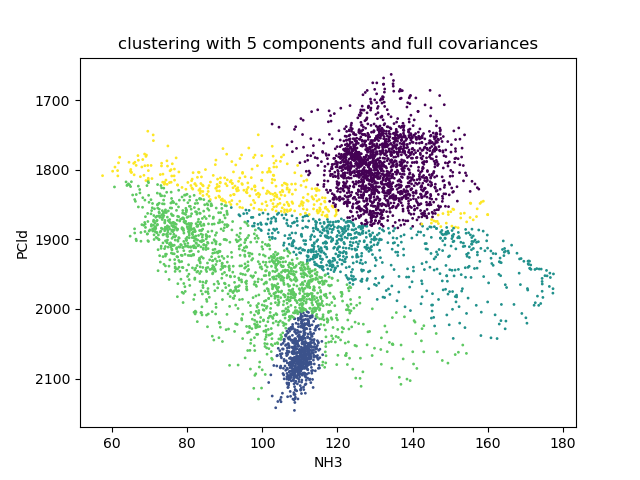
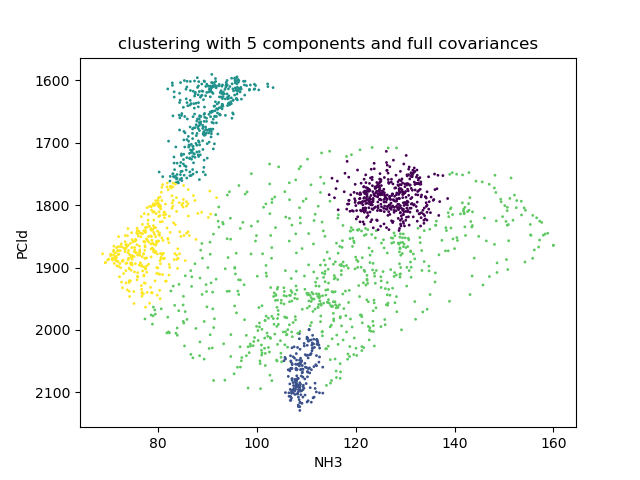
chore: move plotting logic to plot file

diff --git a/scripts/plots/plots.py b/scripts/plots/plots.py
@@ -1,32 +1,26 @@
 import matplotlib.pyplot as plt
-from scripts.preprocessing.preprocessing import get_parameter_2d_array, get_pix_arr
+import scripts.preprocessing.preprocessing as pre
+from config.config import config
+from sklearn.metrics import silhouette_score
+import scripts.clustering.clusters as CL
 import numpy as np
-from scipy.stats import gaussian_kde
-
-#are the axes ranges even right?
-#get denser regions
-def create_plot(input_array, param1, param2):
-    print(input_array.ndim)
-    print(input_array.shape)
-    if not isinstance(input_array, np.ndarray) or input_array.ndim != 2:
-        raise TypeError("input should be 3d array")
-    x = input_array[0]
-    y = input_array[1]
-   # flattened_arr = input_array.reshape(2, -1)
-    mask =  ~np.isnan(x) & ~np.isnan(y)
-    x_vals, y_vals = x[mask], y[mask]
-    xy = np.vstack([x_vals,y_vals])
-    z = gaussian_kde(xy)(xy)
-    ax = plt.gca()
-    ax.set_xlim([0, 200])
-    ax.set_ylim([2200, 1600])
-    plt.scatter(x_vals, y_vals, c = z, s = 1)
-    plt.xlabel(param1)
-    plt.ylabel(param2)
-    plt.show()
 
 
+def create_cluster_plot(keywords, param_ranges, n_comp = 5, cov_type = "full", 
+                        latRng = [65, 105], lngRng = [0, 50], cm_num = 3
+                        ):
+ 
+    input_arr = pre.get_input_array(keywords, param_ranges, latRng, lngRng, cm_num)[0]
+    print(input_arr)
+    pred = CL.create_clusters(input_arr[:, [0,1]], cov_type, n_comp)
+    print("silhouette score: " + str(silhouette_score(input_arr, pred)))
+    fig, ax = plt.subplots()
+    ax.yaxis.set_inverted(True)
+    plt.scatter(input_arr[:, 0], input_arr[:, 1],c = pred,s = 1)
+    plt.title(f'clustering with {n_comp} components and {cov_type} covariances')
+    plt.xlabel(keywords[0])
+    plt.ylabel(keywords[1])
+    plt.savefig(f'{config["output"]}/cluster_plots/clusters_{cov_type}_{n_comp}_.png')
+    return 0
 
-#create_plot(get_parameter_2d_array(["NH3", "PCld"]), "ammonia content", "cloud pressure")
-#create_plot(get_pix_arr([[60, 160], [1400, 2200]], ["NH3", "PCld"] ), "ammonia content", "cloud pressure")
-
+create_cluster_plot(["NH3", "PCld"], [[30, 250], [1000, 2500]])

diff --git a/scripts/clustering/clusters.py b/scripts/clustering/clusters.py
@@ -20,38 +20,15 @@ def create_clusters(pix_arr, cov_type, n_components):
 
     return predictions
 
-def create_cluster_plot(keywords, param_ranges, n_comp = 5, cov_type = "full", 
-                        latRng = [65, 105], lngRng = [0, 360], cm_num = 3
-                        ):
- 
-    input_arr = pre.get_input_array(keywords, param_ranges, latRng, lngRng, cm_num)[0]
-    print(input_arr)
-    pred = create_clusters(input_arr[:, [0,1]], cov_type, n_comp)
-    print("silhouette score: " + str(silhouette_score(input_arr, pred)))
-    fig, ax = plt.subplots()
-    ax.yaxis.set_inverted(True)
-    plt.scatter(input_arr[:, 0], input_arr[:, 1],c = pred,s = 1)
-    plt.title(f'clustering with {n_comp} components and {cov_type} covariances')
-    plt.xlabel(keywords[0])
-    plt.ylabel(keywords[1])
-    plt.savefig(f'{config["output"]}/cluster_plots/clusters_{cov_type}_{n_comp}_.png')
-    return 0
+
 
 
   
     
   
-   
-
-#pix_arr =  get_pix_arr([[60, 160], [1400, 2200]], ["NH3", "PCld"])
-#create_cluster_plot(pix_arr, "ammonia content", "cloud pressure", "full", 28)
-#create_cluster_plot(pix_arr, "ammonia content", "cloud pressure", "diag", 7)
+  
 
 
 
 
-#create_cluster_map_arr( ["NH3", "PCld", "AOI", "CI"], [[60, 250], [1400, 2500], [0.1, 0.4], [0.35, 0.75]])
 
-#create_cluster_map_arr(["NH3", "PCld"], [[30, 250], [1000, 2500]])
-#create_cluster_plot(["NH3", "PCld"], [[30, 250], [1000, 2500]])
-#print(silhouette_score(hst_pix_arr, pred))

diff --git a/scripts/plots/mapping.py b/scripts/plots/mapping.py
@@ -65,3 +65,5 @@ def create_cluster_arr(input_arr, subset_shape, pred):
     return mapped_clusters
 
 create_cluster_map(["NH3", "PCld"], [[30, 250], [1000, 2500]])
+
+#create_cluster_map_arr( ["NH3", "PCld", "AOI", "CI"], [[60, 250], [1400, 2500], [0.1, 0.4], [0.35, 0.75]])
